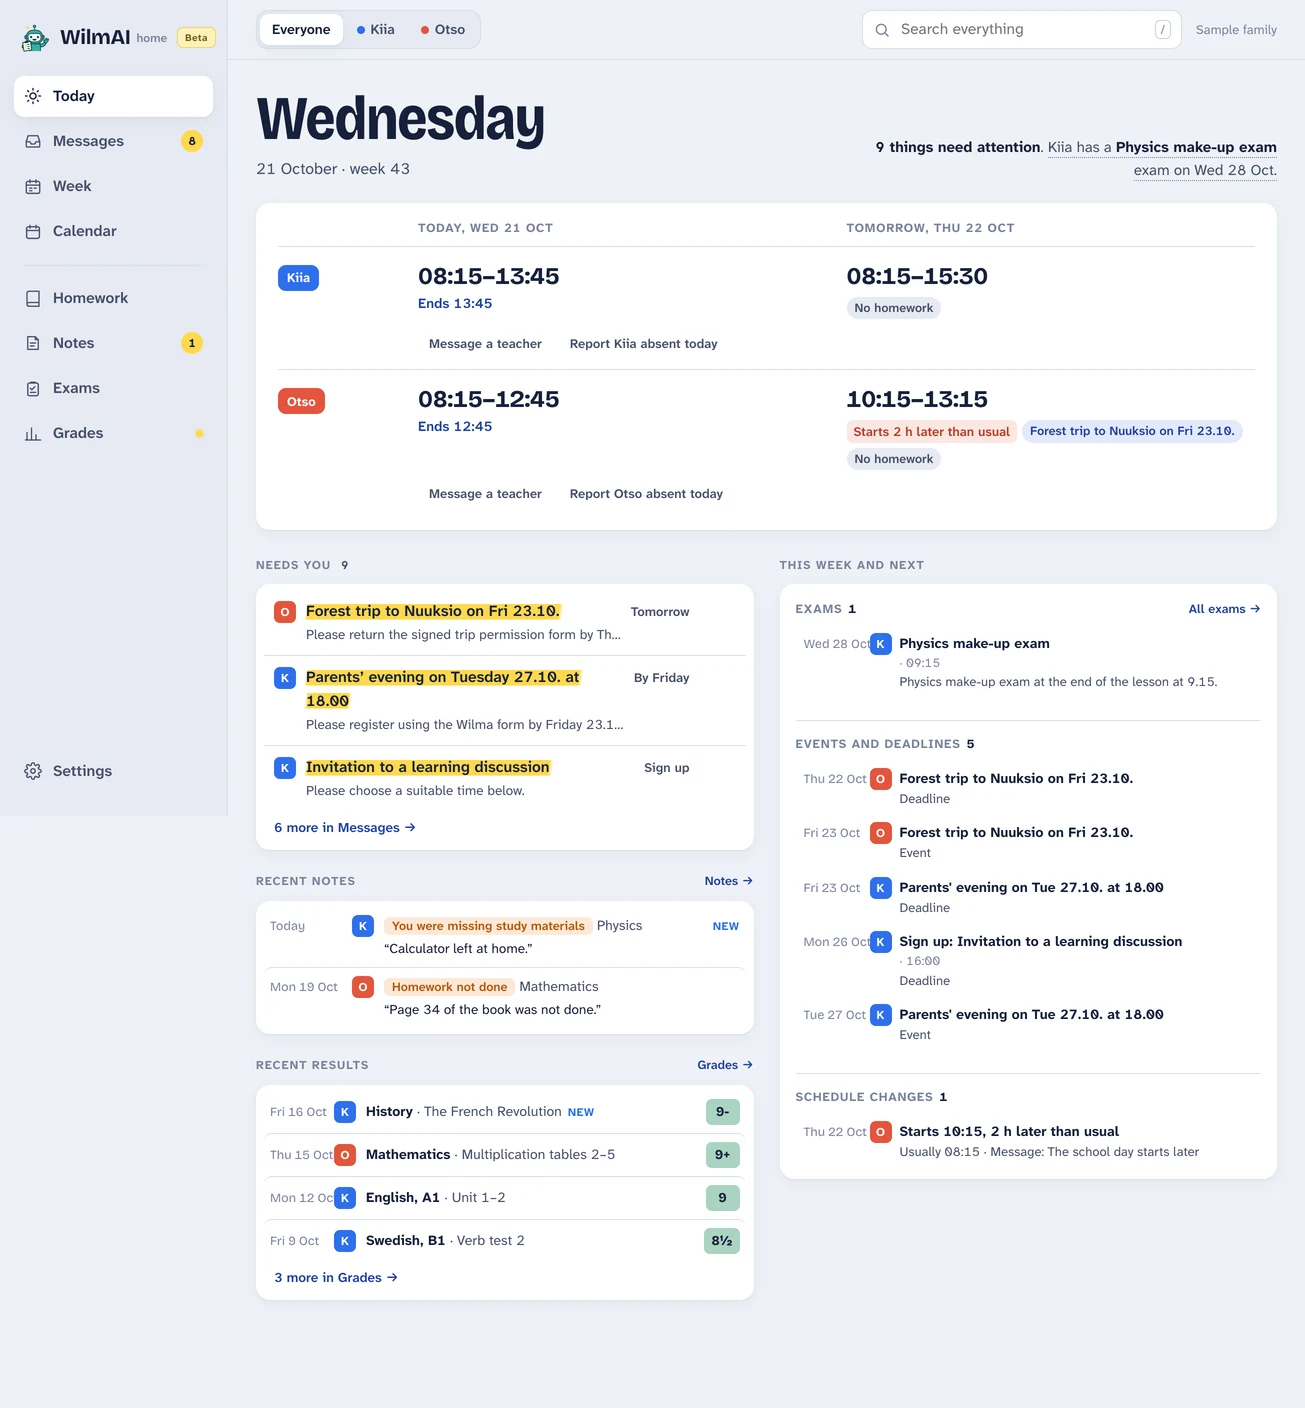
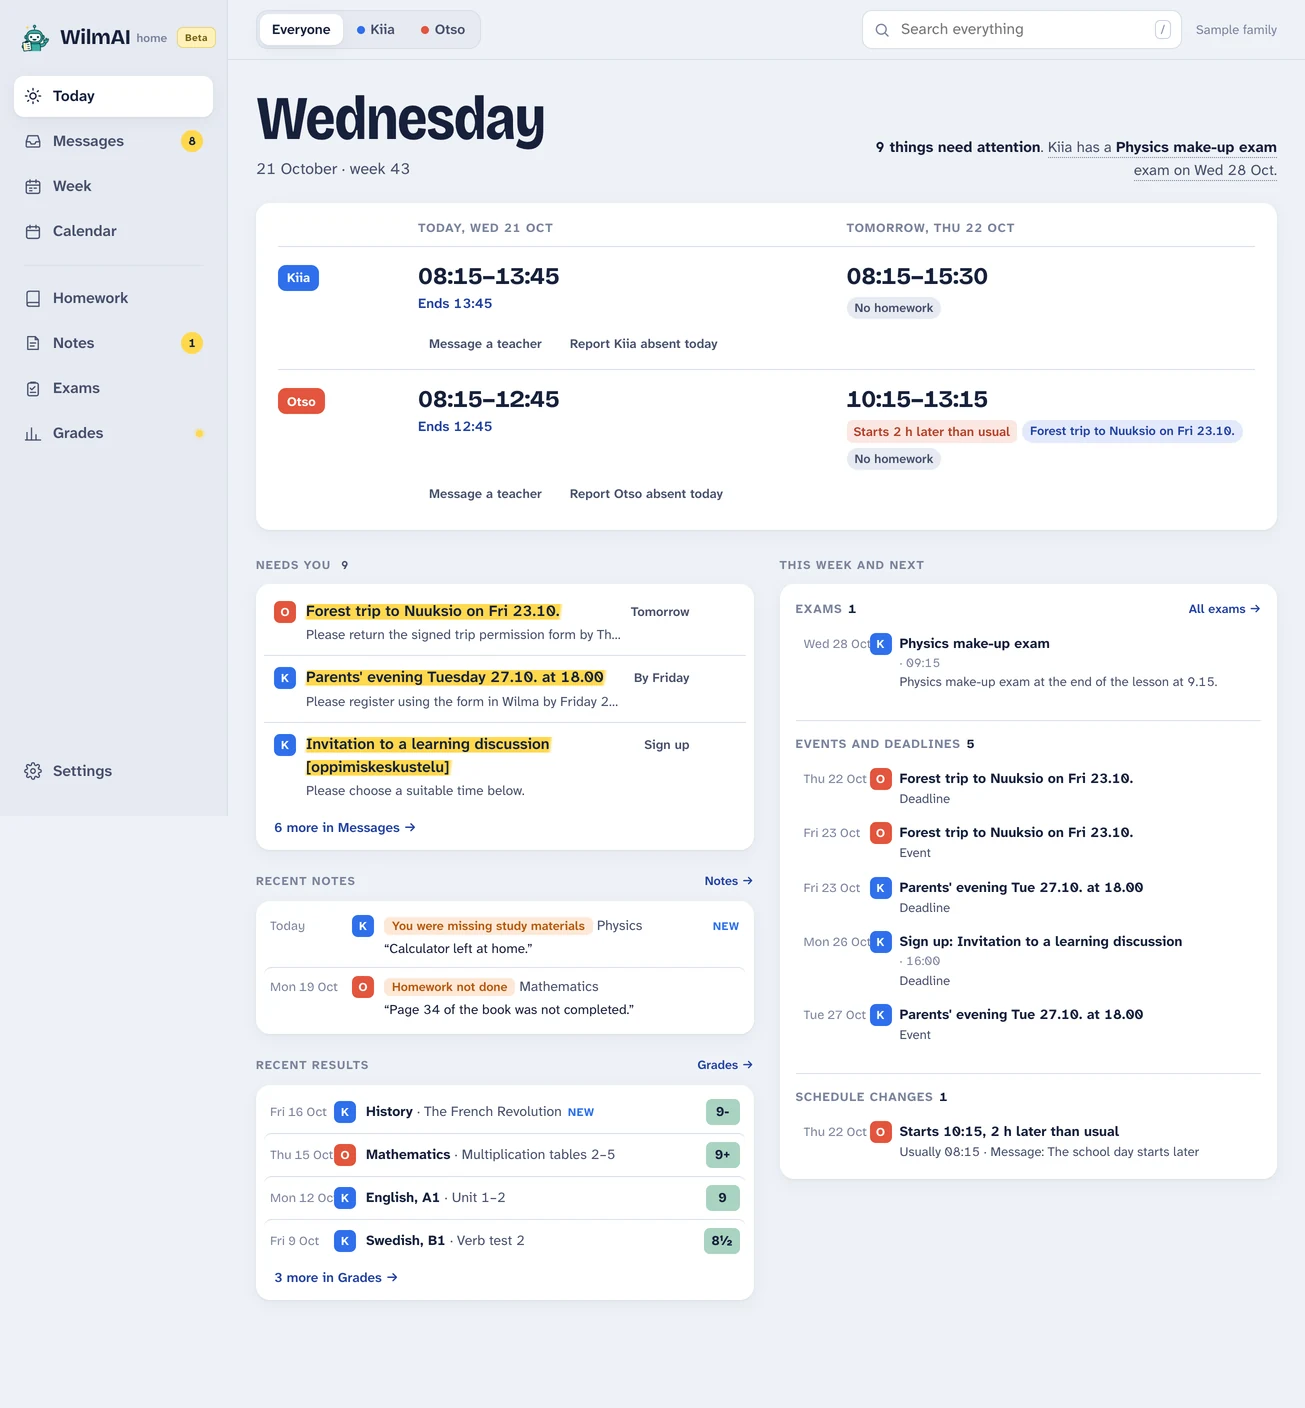
WilmAI Home 0.3.0 Beta is out: the update feed and downloads, the privacy page, the tour's pictures; changelog: 2.3.2 released 2026-11-02
The update feed (app/latest.json) and wilm.ai/get/mac and /get/windows point to
home-v0.3.0. The privacy page says Home sends the subject names in the
children's timetables once, to mark PE days (English and Finnish). The Home
page's tour and the site's other pictures of the app are captured again from
0.3.0. wilma-cli 2.3.2, wilma-client 1.9.0 and the MCP Registry listing
ai.wilm/wilma went out the same day.

diff --git a/apps/site/lib/privacy.ts b/apps/site/lib/privacy.ts
@@ -31,7 +31,7 @@ const en: PrivacyCopy = {
   eyebrow: "privacy",
   title: "Your data stays with you",
   lead: "WilmAI has no server that holds your data, no accounts and no tracking. Your Wilma login and your school data stay on your own computer, and go only where you send them.",
-  updated: "Updated 1 November 2026",
+  updated: "Updated 2 November 2026",
   sections: [
     {
       id: "who",
@@ -75,7 +75,7 @@ const en: PrivacyCopy = {
         "The app runs on your computer and talks to your school's Wilma directly. Messages, timetables, drafts and AI answers are stored in the app, on your computer.",
         "When you sign in with a password, the app remembers it on your computer, scrambled, not encrypted, so signing in again is one click. On a shared computer, untick Remember on this computer. Forget it in Settings, or signing out, removes it. An OpenAI API key is kept the same way. Reset app in Settings deletes all of it.",
         "No AI, the default: nothing goes to an AI service. Local AI: the models are downloaded once from Hugging Face, and the reading happens on your Mac, so no school data leaves it.",
-        "OpenAI, with your own API key: the app sends one message, bulletin or lesson note at a time, with your children's first names and classes so it can tell whom it's about, straight from your computer to OpenAI. It asks OpenAI not to store the readings. If you turn on translations, it also sends the texts it translates the same way: messages and bulletins, and Wilma's shorter texts such as subject names, list titles and teachers' notes. If you choose to write to the school in Finnish or Swedish, Translate sends what you wrote, with its subject, the same way. OpenAI handles the data under its API terms, and bills your key.",
+        "OpenAI, with your own API key: the app sends one message, bulletin or lesson note at a time, with your children's first names and classes so it can tell whom it's about, straight from your computer to OpenAI. It asks OpenAI not to store the readings. To mark PE days, it also sends the names of the subjects in your children's timetables, once. If you turn on translations, it also sends the texts it translates the same way: messages and bulletins, and Wilma's shorter texts such as subject names, list titles and teachers' notes. If you choose to write to the school in Finnish or Swedish, Translate sends what you wrote, with its subject, the same way. OpenAI handles the data under its API terms, and bills your key.",
         "A few times a day the app asks wilm.ai whether there's a newer version. The request carries no identifier, only what any request carries: your computer's IP address, and the updater's name and version. Updates and installers are downloaded from GitHub. Look for new versions in Settings turns the checks off.",
         "The app has no telemetry, no crash reports and no accounts. GitHub tells me only how many times each installer was downloaded."
       ]
@@ -123,7 +123,7 @@ const fi: PrivacyCopy = {
   eyebrow: "tietosuoja",
   title: "Tietosi pysyvät sinulla",
   lead: "WilmAI:lla ei ole palvelinta, jolla tietosi olisivat, eikä käyttäjätilejä tai seurantaa. Wilma-tunnuksesi ja koulun tiedot pysyvät omalla tietokoneellasi ja menevät vain sinne, minne itse ne lähetät.",
-  updated: "Päivitetty 1.11.2026",
+  updated: "Päivitetty 2.11.2026",
   sections: [
     {
       id: "who",
@@ -167,7 +167,7 @@ const fi: PrivacyCopy = {
         "Sovellus toimii koneellasi ja on yhteydessä suoraan koulusi Wilmaan. Viestit, lukujärjestykset, luonnokset ja tekoälyn vastaukset tallennetaan sovellukseen omalle koneellesi.",
         "Kun kirjaudut salasanalla, sovellus muistaa sen koneellasi peitettynä, ei salattuna, joten uudelleen kirjautuminen on yksi klikkaus. Yhteiskäyttöisellä koneella jätä Muista tällä koneella pois. Asetusten Unohda se tai uloskirjautuminen poistaa salasanan. OpenAI:n API-avain säilytetään samalla tavalla. Asetusten Nollaa sovellus poistaa ne kaikki.",
         "Ei tekoälyä, oletus: mitään ei lähetetä tekoälypalveluun. Paikallinen tekoäly: mallit ladataan kerran Hugging Facesta, ja lukeminen tapahtuu Macillasi, joten koulutiedot eivät lähde siltä.",
-        "OpenAI omalla API-avaimellasi: sovellus lähettää yhden viestin, tiedotteen tai tuntimerkinnän kerrallaan suoraan koneeltasi OpenAI:lle, mukana lasten etunimet ja luokat, jotta se tietää, ketä asia koskee. Sovellus pyytää OpenAI:ta olemaan tallentamatta lukemiaan. Jos otat käännökset käyttöön, sovellus lähettää samalla tavalla myös kääntämänsä tekstit: viestit ja tiedotteet sekä Wilman lyhyemmät tekstit, kuten aineiden nimet, listojen otsikot ja opettajien merkinnät. Jos valitset kirjoittavasi koululle suomeksi tai ruotsiksi, Käännä lähettää samalla tavalla kirjoittamasi viestin otsikkoineen. OpenAI käsittelee tiedot API-ehtojensa mukaan ja laskuttaa avaintasi.",
+        "OpenAI omalla API-avaimellasi: sovellus lähettää yhden viestin, tiedotteen tai tuntimerkinnän kerrallaan suoraan koneeltasi OpenAI:lle, mukana lasten etunimet ja luokat, jotta se tietää, ketä asia koskee. Sovellus pyytää OpenAI:ta olemaan tallentamatta lukemiaan. Liikuntapäivien merkitsemiseksi se lähettää kerran myös lasten lukujärjestysten oppiaineiden nimet. Jos otat käännökset käyttöön, sovellus lähettää samalla tavalla myös kääntämänsä tekstit: viestit ja tiedotteet sekä Wilman lyhyemmät tekstit, kuten aineiden nimet, listojen otsikot ja opettajien merkinnät. Jos valitset kirjoittavasi koululle suomeksi tai ruotsiksi, Käännä lähettää samalla tavalla kirjoittamasi viestin otsikkoineen. OpenAI käsittelee tiedot API-ehtojensa mukaan ja laskuttaa avaintasi.",
         "Muutaman kerran päivässä sovellus kysyy wilm.ai:sta, onko uudempaa versiota. Pyynnössä ei ole mitään tunnistetta, vain se mikä missä tahansa pyynnössä: koneesi IP-osoite sekä päivittäjän nimi ja versio. Päivitykset ja asennusohjelmat ladataan GitHubista. Asetusten Tarkista uudet versiot ottaa tarkistukset pois.",
         "Sovelluksessa ei ole telemetriaa, virheraportointia eikä käyttäjätilejä. GitHub kertoo minulle vain, montako kertaa kukin asennusohjelma on ladattu."
       ]

diff --git a/CHANGELOG.md b/CHANGELOG.md
@@ -1,6 +1,6 @@
 # Changelog
 
-## 2.3.2 (unreleased)
+## 2.3.2 (2026-11-02)
 
 _Releases: wilma-cli 2.3.2, wilma-client 1.9.0; the `wilma` skill and plugin 2.3.2; WilmAI in the MCP Registry as `ai.wilm/wilma`._
 
